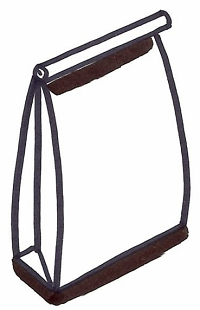
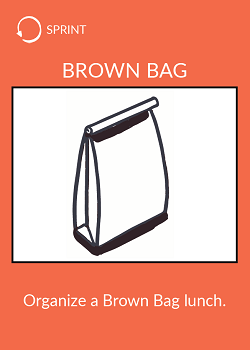
Add culture cards

diff --git a/culture/Readme.md b/culture/Readme.md
@@ -1,14 +1,18 @@
 # Culture
-* [Have a coffee break with someone you do not know](coffee-break.md)
-* [Read 1 technical article](read-1-article.md)
-* [Start the day with an ice breaker](ice-breaker.md)
-* [Attend to a conference (tech or not)](conference.md)
-* [Watch a video](watch-video.md)
-* [Read 1 chapter from a technical book](technical-book.md)
-* [Organize a Brown bag lunch](brown-bag.md)
-* [Listen a craft podcast](craft-podcast.md)
-* [Test a serious game](serious-game.md)
-* [Use a whiteboard during a meeting](sketchnote-meeting.md)
-* [Give positive feedback to a team mate](positive-feedback.md)
-* [Discover a new agile topic](agile-topics.md)
-* [Create a book club](book-club.md)
+[![Have a coffee break with someone you do not know](images/coffee-break.png)](coffee-break.md)
+[![Read 1 technical article](images/read-1-article.png)](read-1-article.md)
+[![Start the day with an ice breaker](images/ice-breaker.png)](ice-breaker.md)
+[![Attend to a conference (tech or not)](images/conference.png)](conference.md)
+[![Watch a video](images/watch-video.png)](watch-video.md)
+[![Read 1 chapter from a technical book](images/technical-book.png)](technical-book.md)
+[![Organize a Brown bag lunch](images/brown-bag.png)](brown-bag.md)
+[![Listen a craft podcast](images/craft-podcast.png)](craft-podcast.md)
+[![Test a serious game](images/serious-game.png)](serious-game.md)
+[![Use a whiteboard during a meeting](images/sketchnote-meeting.png)](sketchnote-meeting.md)
+[![Give positive feedback to a team mate](images/positive-feedback.png)](positive-feedback.md)
+[![Discover a new agile topic](images/agile-topics.png)](agile-topics.md)
+[![Create a book club](images/book-club.png)](book-club.md)
+
+# Print the cards
+* [Recto](../cards/culture-recto.pdf)  
+* [Verso](../cards/culture-verso.pdf)

diff --git a/culture/coffee-break.md b/culture/coffee-break.md
@@ -1,8 +1,8 @@
 # Have a coffee break with someone you do not know
-![Coffee break](images/coffee_break.png)  
+![Coffee break](images/coffee-break.png)  
 
 * Identify someone you do not know
 * Offer him a coffee
 * Chat with him
 
-![Coffee break](images/coffee_break1.jpg)  
+![Coffee break](images/coffee-break1.jpg)  
